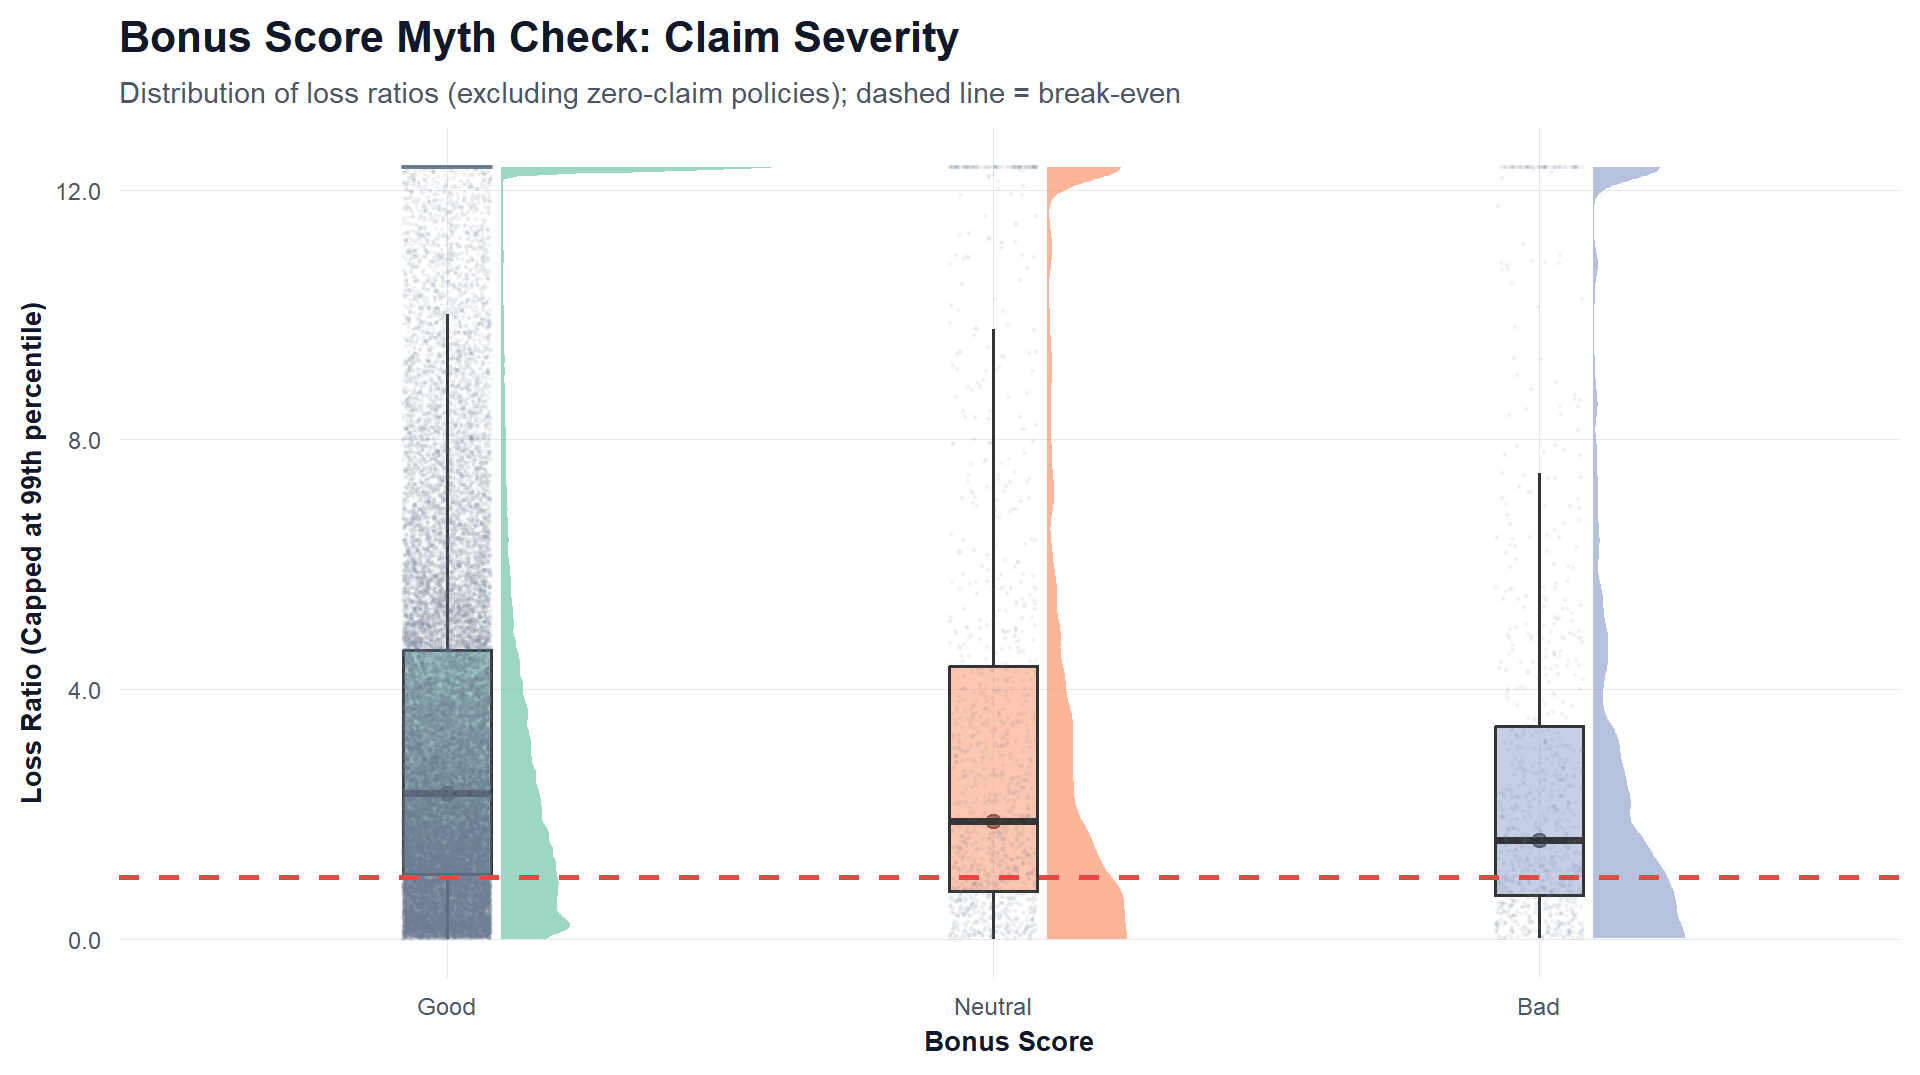
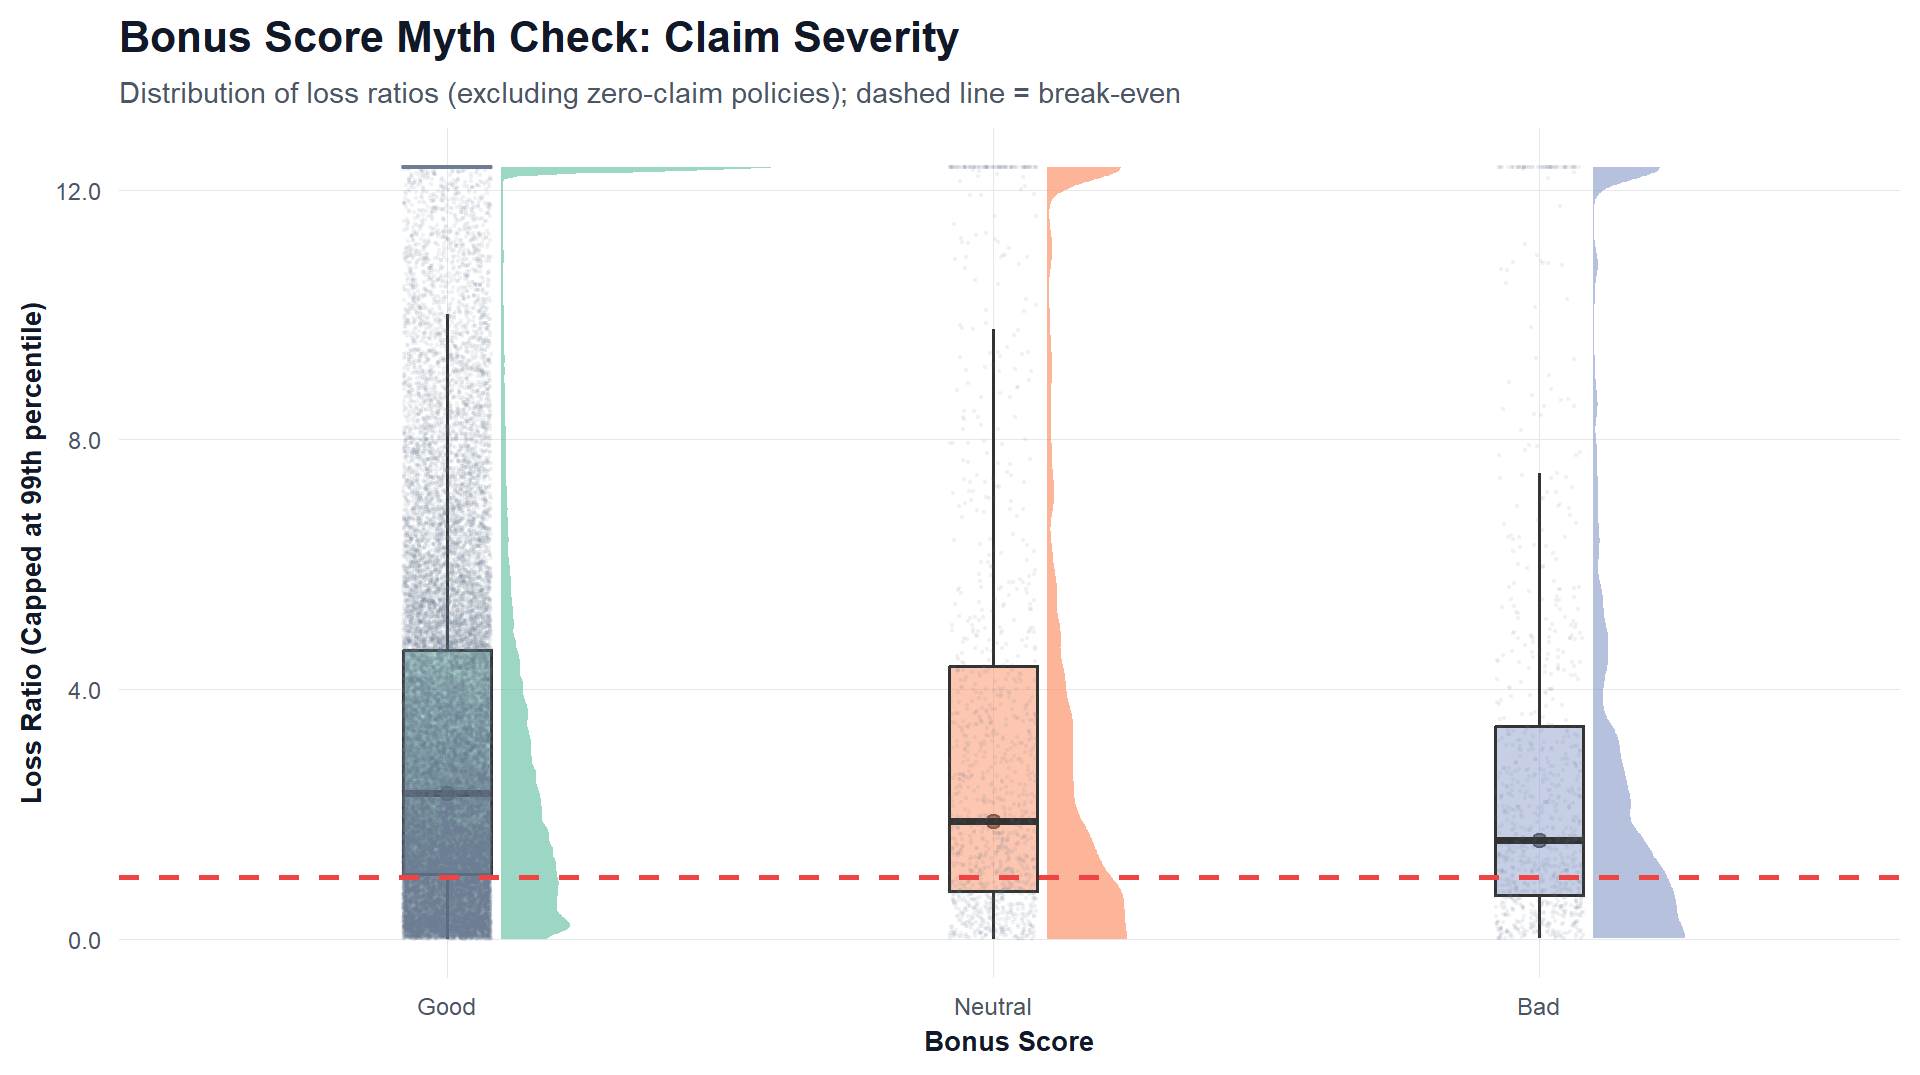
Hands-on Exercise 7

Changed region(s): [[0.1875, 0.1535, 0.25, 0.6753], [0.5, 0.7981, 0.5312, 0.8595], [0.7812, 0.8288, 0.8125, 0.8595]]

diff --git a/_site/HO_EX/HO_EX04/HO_EX04C.html b/_site/HO_EX/HO_EX04/HO_EX04C.html
@@ -514,12 +514,12 @@ Note
 <div class="container-fluid crosstalk-bscols">
 <div class="row">
 <div class="col-xs-4">
-<div class="plotly html-widget html-fill-item" id="htmlwidget-4dbff18098035ab052c8" style="width:100%;height:400px;"></div>
-<script type="application/json" data-for="htmlwidget-4dbff18098035ab052c8">{"x":{"data":[{"x":[1,3,4,2],"y":[76.507772020725383,60.666666666666664,57.444444444444443,69.666666666666671],"text":"","key":["1","2","3","4"],"type":"scatter","mode":"lines","opacity":0.90000000000000002,"line":{"color":"transparent"},"error_y":{"array":[2.9214818033282057,18.165794029639137,5.2713960499886028,9.7819093228264933],"arrayminus":[2.9214818033282057,18.165794029639137,5.2713960499886028,9.7819093228265004],"type":"data","width":21.333333333333353,"symmetric":false,"color":"rgba(0,0,0,1)"},"set":"SharedDatafbbbcbdd","showlegend":false,"xaxis":"x","yaxis":"y","hoverinfo":"text","_isNestedKey":false,"frame":null},{"x":[1,3,4,2],"y":[76.507772020725383,60.666666666666664,57.444444444444443,69.666666666666671],"text":["Race: Chinese <br>N: 193 <br>Avg. Scores: 76.51 <br>95% CI:[ 73.59 , 79.43 ]","Race: Indian <br>N: 12 <br>Avg. Scores: 60.67 <br>95% CI:[ 42.5 , 78.83 ]","Race: Malay <br>N: 108 <br>Avg. Scores: 57.44 <br>95% CI:[ 52.17 , 62.72 ]","Race: Others <br>N: 9 <br>Avg. Scores: 69.67 <br>95% CI:[ 59.88 , 79.45 ]"],"key":["1","2","3","4"],"type":"scatter","mode":"markers","marker":{"autocolorscale":false,"color":"rgba(255,0,0,1)","opacity":1,"size":5.6692913385826778,"symbol":"circle","line":{"width":1.8897637795275593,"color":"rgba(255,0,0,1)"}},"hoveron":"points","set":"SharedDatafbbbcbdd","showlegend":false,"xaxis":"x","yaxis":"y","hoverinfo":"text","_isNestedKey":false,"frame":null}],"layout":{"margin":{"t":40.840182648401829,"r":7.3059360730593621,"b":47.923444344685095,"l":37.260273972602747},"paper_bgcolor":"rgba(255,255,255,1)","font":{"color":"rgba(0,0,0,1)","family":"","size":14.611872146118724},"title":{"text":"99% Confidence interval of average /<br>maths scores by race","font":{"color":"rgba(0,0,0,1)","family":"","size":17.534246575342465},"x":0,"xref":"paper"},"xaxis":{"domain":[0,1],"automargin":true,"type":"linear","autorange":false,"range":[0.40000000000000002,4.5999999999999996],"tickmode":"array","ticktext":["Chinese","Others","Indian","Malay"],"tickvals":[1,2,3,4],"categoryorder":"array","categoryarray":["Chinese","Others","Indian","Malay"],"nticks":null,"ticks":"","tickcolor":null,"ticklen":3.6529680365296811,"tickwidth":0,"showticklabels":true,"tickfont":{"color":"rgba(77,77,77,1)","family":"","size":11.68949771689498},"tickangle":-45,"showline":false,"linecolor":null,"linewidth":0,"showgrid":true,"gridcolor":"rgba(235,235,235,1)","gridwidth":0.66417600664176002,"zeroline":false,"anchor":"y","title":{"text":"Race","font":{"color":"rgba(0,0,0,1)","family":"","size":14.611872146118724}},"hoverformat":".2f"},"yaxis":{"domain":[0,1],"automargin":true,"type":"linear","autorange":false,"range":[40.653487469404247,81.295961157116452],"tickmode":"array","ticktext":["50","60","70","80"],"tickvals":[50,60,70,80],"categoryorder":"array","categoryarray":["50","60","70","80"],"nticks":null,"ticks":"","tickcolor":null,"ticklen":3.6529680365296811,"tickwidth":0,"showticklabels":true,"tickfont":{"color":"rgba(77,77,77,1)","family":"","size":11.68949771689498},"tickangle":-0,"showline":false,"linecolor":null,"linewidth":0,"showgrid":true,"gridcolor":"rgba(235,235,235,1)","gridwidth":0.66417600664176002,"zeroline":false,"anchor":"x","title":{"text":"Average Scores","font":{"color":"rgba(0,0,0,1)","family":"","size":14.611872146118724}},"hoverformat":".2f"},"shapes":[],"showlegend":false,"legend":{"bgcolor":null,"bordercolor":null,"borderwidth":0,"font":{"color":"rgba(0,0,0,1)","family":"","size":11.68949771689498}},"hovermode":"closest","barmode":"relative","dragmode":"zoom"},"config":{"doubleClick":"reset","modeBarButtonsToAdd":["hoverclosest","hovercompare"],"showSendToCloud":false},"source":"A","attrs":{"6a5062aa62f1":{"x":{},"ymin":{},"ymax":{},"type":"scatter"},"6a50512134b2":{"x":{},"y":{},"text":{}}},"cur_data":"6a5062aa62f1","visdat":{"6a5062aa62f1":["function (y) ","x"],"6a50512134b2":["function (y) ","x"]},"highlight":{"on":"plotly_click","persistent":false,"dynamic":false,"selectize":false,"opacityDim":0.20000000000000001,"selected":{"opacity":1},"debounce":0,"ctGroups":["SharedDatafbbbcbdd"]},"shinyEvents":["plotly_hover","plotly_click","plotly_selected","plotly_relayout","plotly_brushed","plotly_brushing","plotly_clickannotation","plotly_doubleclick","plotly_deselect","plotly_afterplot","plotly_sunburstclick"],"base_url":"https://plot.ly"},"evals":[],"jsHooks":[]}</script>
+<div class="plotly html-widget html-fill-item" id="htmlwidget-cba4be04b33336dd8048" style="width:100%;height:400px;"></div>
+<script type="application/json" data-for="htmlwidget-cba4be04b33336dd8048">{"x":{"data":[{"x":[1,3,4,2],"y":[76.507772020725383,60.666666666666664,57.444444444444443,69.666666666666671],"text":"","key":["1","2","3","4"],"type":"scatter","mode":"lines","opacity":0.90000000000000002,"line":{"color":"transparent"},"error_y":{"array":[2.9214818033282057,18.165794029639137,5.2713960499886028,9.7819093228264933],"arrayminus":[2.9214818033282057,18.165794029639137,5.2713960499886028,9.7819093228265004],"type":"data","width":21.333333333333353,"symmetric":false,"color":"rgba(0,0,0,1)"},"set":"SharedData3a170b30","showlegend":false,"xaxis":"x","yaxis":"y","hoverinfo":"text","_isNestedKey":false,"frame":null},{"x":[1,3,4,2],"y":[76.507772020725383,60.666666666666664,57.444444444444443,69.666666666666671],"text":["Race: Chinese <br>N: 193 <br>Avg. Scores: 76.51 <br>95% CI:[ 73.59 , 79.43 ]","Race: Indian <br>N: 12 <br>Avg. Scores: 60.67 <br>95% CI:[ 42.5 , 78.83 ]","Race: Malay <br>N: 108 <br>Avg. Scores: 57.44 <br>95% CI:[ 52.17 , 62.72 ]","Race: Others <br>N: 9 <br>Avg. Scores: 69.67 <br>95% CI:[ 59.88 , 79.45 ]"],"key":["1","2","3","4"],"type":"scatter","mode":"markers","marker":{"autocolorscale":false,"color":"rgba(255,0,0,1)","opacity":1,"size":5.6692913385826778,"symbol":"circle","line":{"width":1.8897637795275593,"color":"rgba(255,0,0,1)"}},"hoveron":"points","set":"SharedData3a170b30","showlegend":false,"xaxis":"x","yaxis":"y","hoverinfo":"text","_isNestedKey":false,"frame":null}],"layout":{"margin":{"t":40.840182648401829,"r":7.3059360730593621,"b":47.923444344685095,"l":37.260273972602747},"paper_bgcolor":"rgba(255,255,255,1)","font":{"color":"rgba(0,0,0,1)","family":"","size":14.611872146118724},"title":{"text":"99% Confidence interval of average /<br>maths scores by race","font":{"color":"rgba(0,0,0,1)","family":"","size":17.534246575342465},"x":0,"xref":"paper"},"xaxis":{"domain":[0,1],"automargin":true,"type":"linear","autorange":false,"range":[0.40000000000000002,4.5999999999999996],"tickmode":"array","ticktext":["Chinese","Others","Indian","Malay"],"tickvals":[1,2,3,4],"categoryorder":"array","categoryarray":["Chinese","Others","Indian","Malay"],"nticks":null,"ticks":"","tickcolor":null,"ticklen":3.6529680365296811,"tickwidth":0,"showticklabels":true,"tickfont":{"color":"rgba(77,77,77,1)","family":"","size":11.68949771689498},"tickangle":-45,"showline":false,"linecolor":null,"linewidth":0,"showgrid":true,"gridcolor":"rgba(235,235,235,1)","gridwidth":0.66417600664176002,"zeroline":false,"anchor":"y","title":{"text":"Race","font":{"color":"rgba(0,0,0,1)","family":"","size":14.611872146118724}},"hoverformat":".2f"},"yaxis":{"domain":[0,1],"automargin":true,"type":"linear","autorange":false,"range":[40.653487469404247,81.295961157116452],"tickmode":"array","ticktext":["50","60","70","80"],"tickvals":[50,60,70,80],"categoryorder":"array","categoryarray":["50","60","70","80"],"nticks":null,"ticks":"","tickcolor":null,"ticklen":3.6529680365296811,"tickwidth":0,"showticklabels":true,"tickfont":{"color":"rgba(77,77,77,1)","family":"","size":11.68949771689498},"tickangle":-0,"showline":false,"linecolor":null,"linewidth":0,"showgrid":true,"gridcolor":"rgba(235,235,235,1)","gridwidth":0.66417600664176002,"zeroline":false,"anchor":"x","title":{"text":"Average Scores","font":{"color":"rgba(0,0,0,1)","family":"","size":14.611872146118724}},"hoverformat":".2f"},"shapes":[],"showlegend":false,"legend":{"bgcolor":null,"bordercolor":null,"borderwidth":0,"font":{"color":"rgba(0,0,0,1)","family":"","size":11.68949771689498}},"hovermode":"closest","barmode":"relative","dragmode":"zoom"},"config":{"doubleClick":"reset","modeBarButtonsToAdd":["hoverclosest","hovercompare"],"showSendToCloud":false},"source":"A","attrs":{"4df822262371":{"x":{},"ymin":{},"ymax":{},"type":"scatter"},"4df849c25e6":{"x":{},"y":{},"text":{}}},"cur_data":"4df822262371","visdat":{"4df822262371":["function (y) ","x"],"4df849c25e6":["function (y) ","x"]},"highlight":{"on":"plotly_click","persistent":false,"dynamic":false,"selectize":false,"opacityDim":0.20000000000000001,"selected":{"opacity":1},"debounce":0,"ctGroups":["SharedData3a170b30"]},"shinyEvents":["plotly_hover","plotly_click","plotly_selected","plotly_relayout","plotly_brushed","plotly_brushing","plotly_clickannotation","plotly_doubleclick","plotly_deselect","plotly_afterplot","plotly_sunburstclick"],"base_url":"https://plot.ly"},"evals":[],"jsHooks":[]}</script>
 </div>
 <div class="col-xs-8">
-<div id="htmlwidget-2e86a1e0f80b7931e34d" style="width:100%;height:auto;" class="datatables html-widget"></div>
-<script type="application/json" data-for="htmlwidget-2e86a1e0f80b7931e34d">{"x":{"crosstalkOptions":{"key":["1","2","3","4"],"group":"SharedDatafbbbcbdd"},"filter":"none","vertical":false,"data":[["Chinese","Indian","Malay","Others"],[193,12,108,9],[76.50777202072538,60.66666666666666,57.44444444444444,69.66666666666667],[15.69040284264306,23.35237318418266,21.13478478068458,10.72380529476361],[1.132357288111705,7.041005437844626,2.043176763561474,3.791437722025775]],"container":"<table class=\"compact\">\n  <thead>\n    <tr>\n      <th> <\/th>\n      <th>No. of pupils<\/th>\n      <th>Avg Scores<\/th>\n      <th>Std Dev<\/th>\n      <th>Std Error<\/th>\n    <\/tr>\n  <\/thead>\n<\/table>","options":{"pageLength":10,"scrollX":true,"columnDefs":[{"targets":2,"render":"function(data, type, row, meta) {\n    return type !== 'display' ? data : DTWidget.formatRound(data, 2, 3, \",\", \".\", null);\n  }"},{"targets":3,"render":"function(data, type, row, meta) {\n    return type !== 'display' ? data : DTWidget.formatRound(data, 2, 3, \",\", \".\", null);\n  }"},{"targets":4,"render":"function(data, type, row, meta) {\n    return type !== 'display' ? data : DTWidget.formatRound(data, 2, 3, \",\", \".\", null);\n  }"},{"className":"dt-right","targets":[1,2,3,4]},{"orderable":false,"targets":0},{"name":"RACE","targets":0},{"name":"n","targets":1},{"name":"mean","targets":2},{"name":"sd","targets":3},{"name":"se","targets":4}],"order":[],"autoWidth":false,"orderClasses":false},"selection":{"mode":"multiple","selected":null,"target":"row","selectable":null}},"evals":["options.columnDefs.0.render","options.columnDefs.1.render","options.columnDefs.2.render"],"jsHooks":[]}</script>
+<div id="htmlwidget-5d2859f76ec6ea41a74e" style="width:100%;height:auto;" class="datatables html-widget"></div>
+<script type="application/json" data-for="htmlwidget-5d2859f76ec6ea41a74e">{"x":{"crosstalkOptions":{"key":["1","2","3","4"],"group":"SharedData3a170b30"},"filter":"none","vertical":false,"data":[["Chinese","Indian","Malay","Others"],[193,12,108,9],[76.50777202072538,60.66666666666666,57.44444444444444,69.66666666666667],[15.69040284264306,23.35237318418266,21.13478478068458,10.72380529476361],[1.132357288111705,7.041005437844626,2.043176763561474,3.791437722025775]],"container":"<table class=\"compact\">\n  <thead>\n    <tr>\n      <th> <\/th>\n      <th>No. of pupils<\/th>\n      <th>Avg Scores<\/th>\n      <th>Std Dev<\/th>\n      <th>Std Error<\/th>\n    <\/tr>\n  <\/thead>\n<\/table>","options":{"pageLength":10,"scrollX":true,"columnDefs":[{"targets":2,"render":"function(data, type, row, meta) {\n    return type !== 'display' ? data : DTWidget.formatRound(data, 2, 3, \",\", \".\", null);\n  }"},{"targets":3,"render":"function(data, type, row, meta) {\n    return type !== 'display' ? data : DTWidget.formatRound(data, 2, 3, \",\", \".\", null);\n  }"},{"targets":4,"render":"function(data, type, row, meta) {\n    return type !== 'display' ? data : DTWidget.formatRound(data, 2, 3, \",\", \".\", null);\n  }"},{"className":"dt-right","targets":[1,2,3,4]},{"orderable":false,"targets":0},{"name":"RACE","targets":0},{"name":"n","targets":1},{"name":"mean","targets":2},{"name":"sd","targets":3},{"name":"se","targets":4}],"order":[],"autoWidth":false,"orderClasses":false},"selection":{"mode":"multiple","selected":null,"target":"row","selectable":null}},"evals":["options.columnDefs.0.render","options.columnDefs.1.render","options.columnDefs.2.render"],"jsHooks":[]}</script>
 </div>
 </div>
 </div>

diff --git a/_site/landing_pages/HO_EX07_landing/HO_EX07_landing.html b/_site/landing_pages/HO_EX07_landing/HO_EX07_landing.html
@@ -152,7 +152,7 @@ ul.task-list li input[type="checkbox"] {
 <p>1</p>
 </div>
 <div class="poster-card">
-<div class="poster" style="background-image: url('HO_EX/HO_EX07/images/ho_ex07a_poster.png');">
+<div class="poster" style="background-image: url('https://placehold.co/400x600/2b2b2b/FFC107?text=7-A');">
 
 </div>
 <div class="poster-info">
@@ -166,7 +166,7 @@ ul.task-list li input[type="checkbox"] {
 <p>2</p>
 </div>
 <div class="poster-card">
-<div class="poster" style="background-image: url('HO_EX/HO_EX07/images/ho_ex07b_poster.png');">
+<div class="poster" style="background-image: url('https://placehold.co/400x600/2b2b2b/FFC107?text=7-B');">
 
 </div>
 <div class="poster-info">
